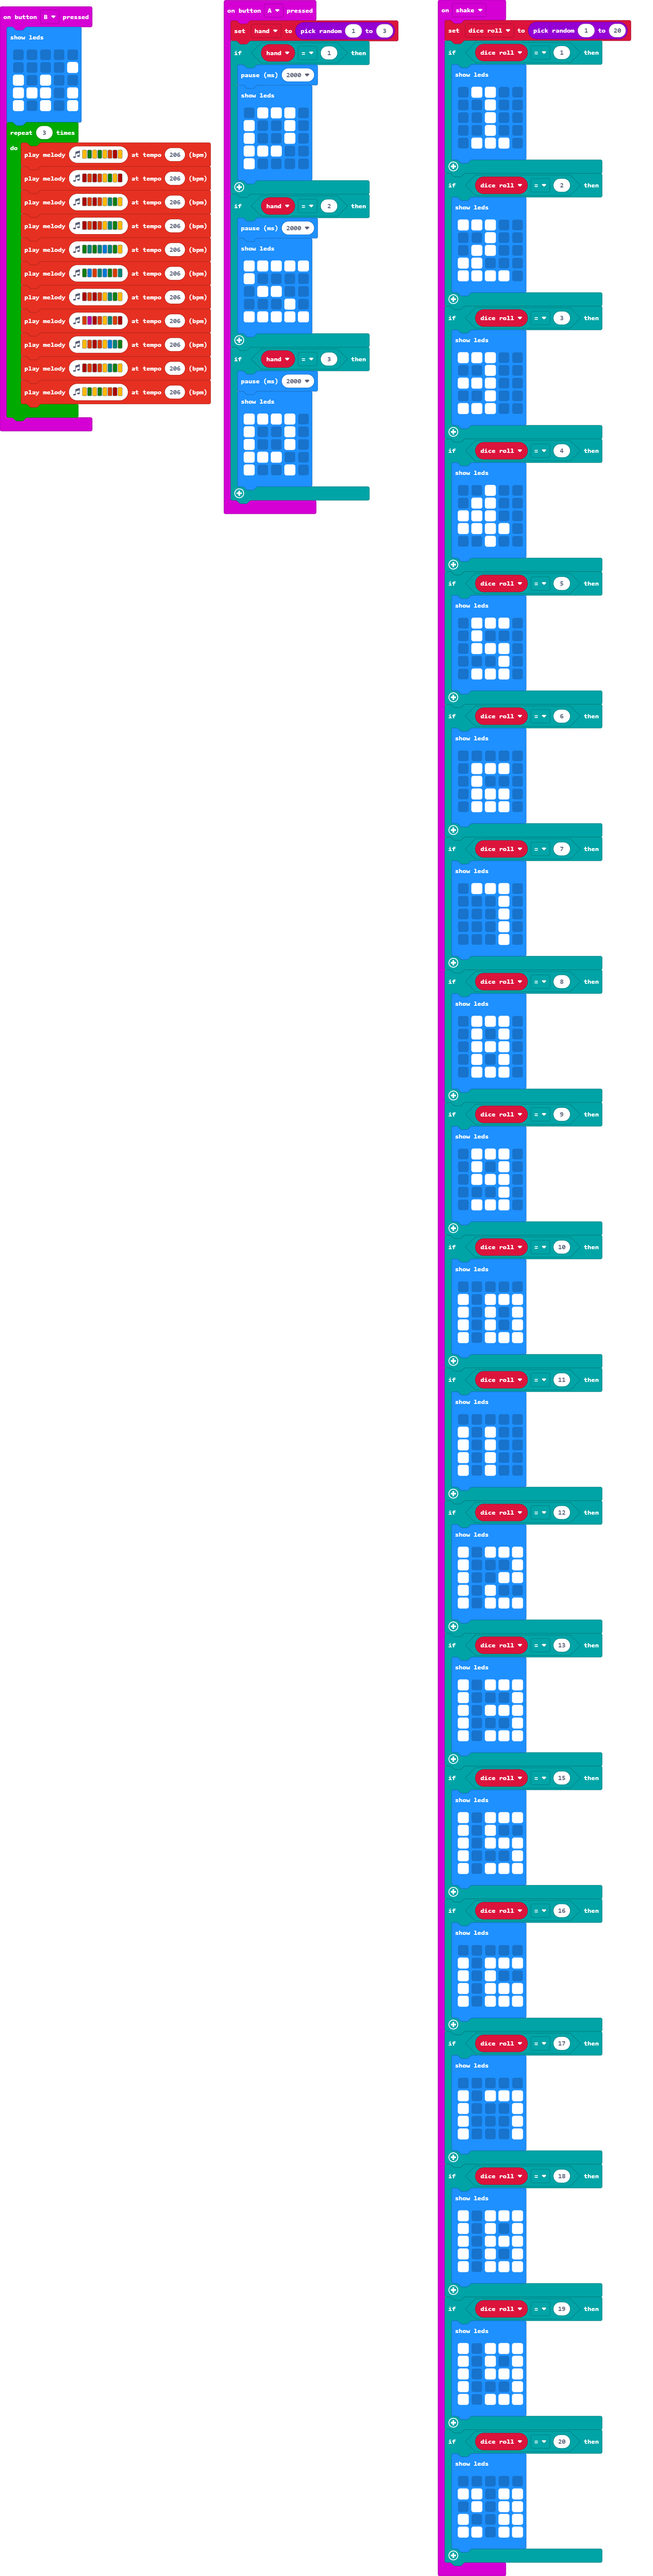
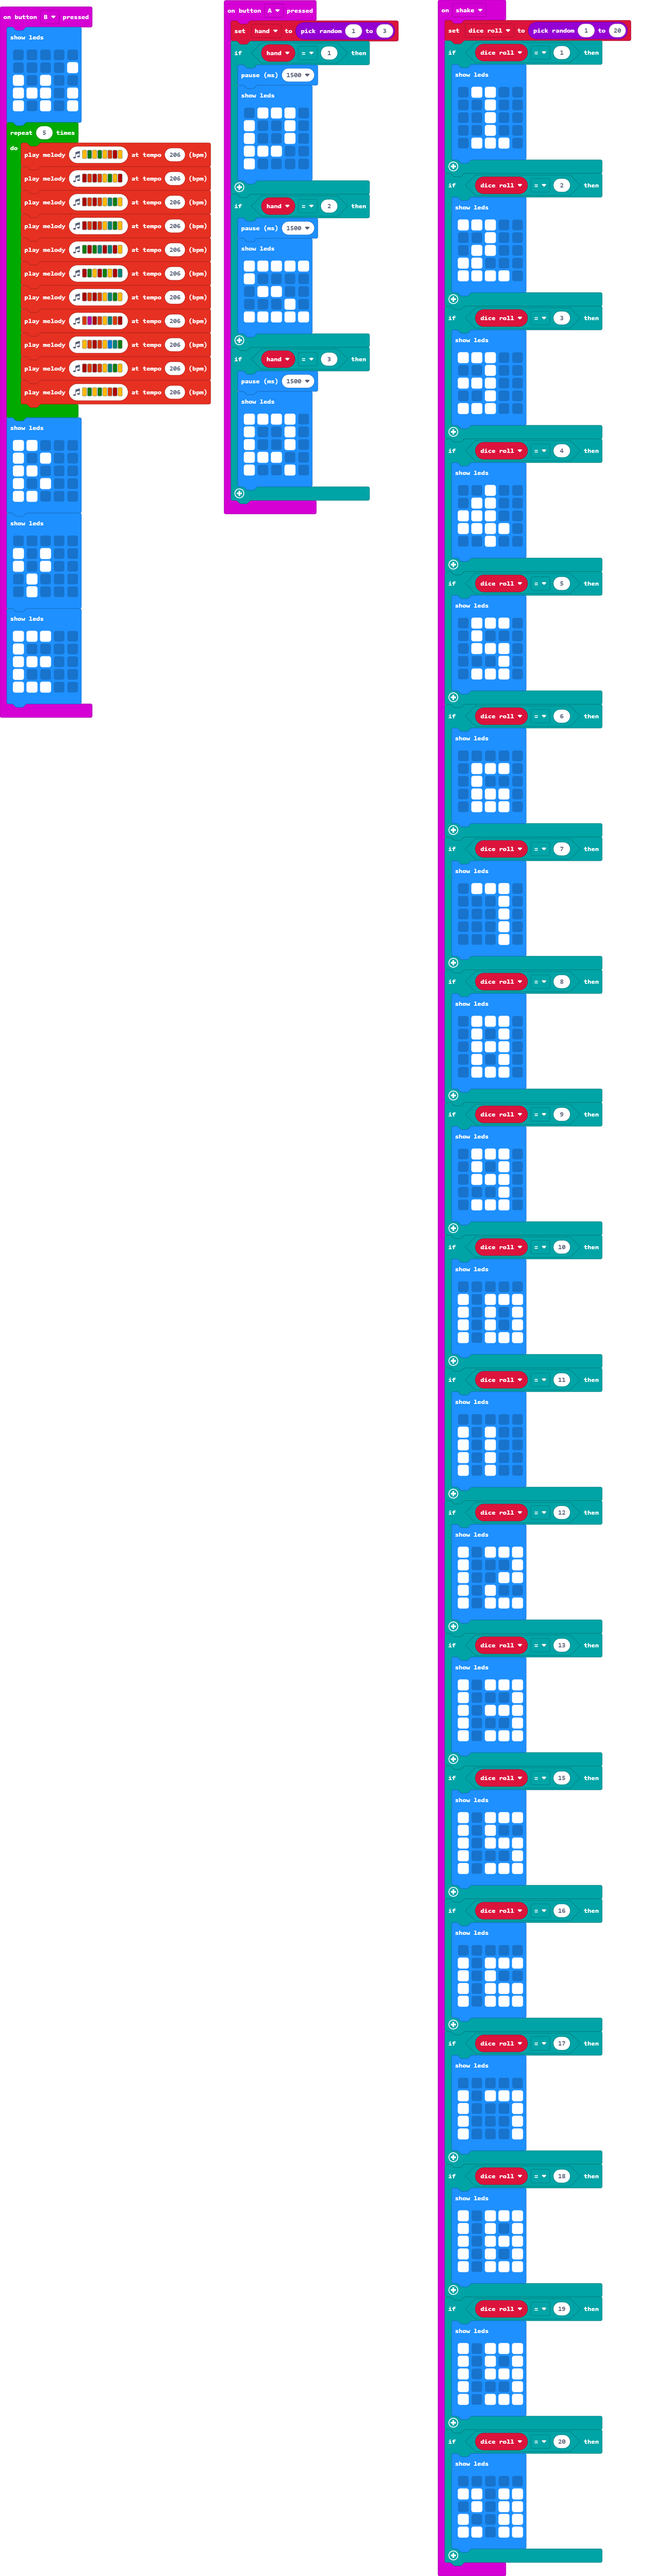
Update main.blocks, main.ts

Changed region(s): [[0.0, 0.1556, 0.1557, 0.28], [0.1246, 0.0933, 0.1869, 0.1244]]

diff --git a/main.ts b/main.ts
@@ -3,7 +3,7 @@ let dice_roll = 0
 input.onButtonPressed(Button.A, function () {
     hand = randint(1, 3)
     if (hand == 1) {
-        basic.pause(2000)
+        basic.pause(1500)
         basic.showLeds(`
             . # # # .
             # . . # .
@@ -13,7 +13,7 @@ input.onButtonPressed(Button.A, function () {
             `)
     }
     if (hand == 2) {
-        basic.pause(2000)
+        basic.pause(1500)
         basic.showLeds(`
             # # # # #
             # . . . .
@@ -23,7 +23,7 @@ input.onButtonPressed(Button.A, function () {
             `)
     }
     if (hand == 3) {
-        basic.pause(2000)
+        basic.pause(1500)
         basic.showLeds(`
             # # # # .
             # . . # .
@@ -41,19 +41,40 @@ input.onButtonPressed(Button.B, function () {
         # # # . #
         # . # . #
         `)
-    for (let index = 0; index < 3; index++) {
+    for (let index = 0; index < 5; index++) {
         music.playMelody("A G A G A B C5 A ", 206)
         music.playMelody("C5 B C5 B A G A C5 ", 206)
         music.playMelody("C5 B C5 B A F G A ", 206)
         music.playMelody("C5 B C5 B A F G A ", 206)
-        music.playMelody("G F G F E F G A ", 206)
-        music.playMelody("G E B F E G B F ", 206)
+        music.playMelody("G C5 G F C5 F C5 A ", 206)
+        music.playMelody("C5 G A C5 G A C5 F ", 206)
         music.playMelody("C5 B C5 B A F G A ", 206)
         music.playMelody("B C C5 B A F B C5 ", 206)
         music.playMelody("A B C5 B A E F G ", 206)
         music.playMelody("C5 B C5 B A F G A ", 206)
         music.playMelody("A G A G A B C5 A ", 206)
     }
+    basic.showLeds(`
+        # # . . .
+        # . # . .
+        # # . . .
+        # . # . .
+        # # . . .
+        `)
+    basic.showLeds(`
+        . . . . .
+        # . # . .
+        # . # . .
+        . # . . .
+        . # . . .
+        `)
+    basic.showLeds(`
+        # # # . .
+        # . . . .
+        # # # . .
+        # . . . .
+        # # # . .
+        `)
 })
 input.onGesture(Gesture.Shake, function () {
     dice_roll = randint(1, 20)
